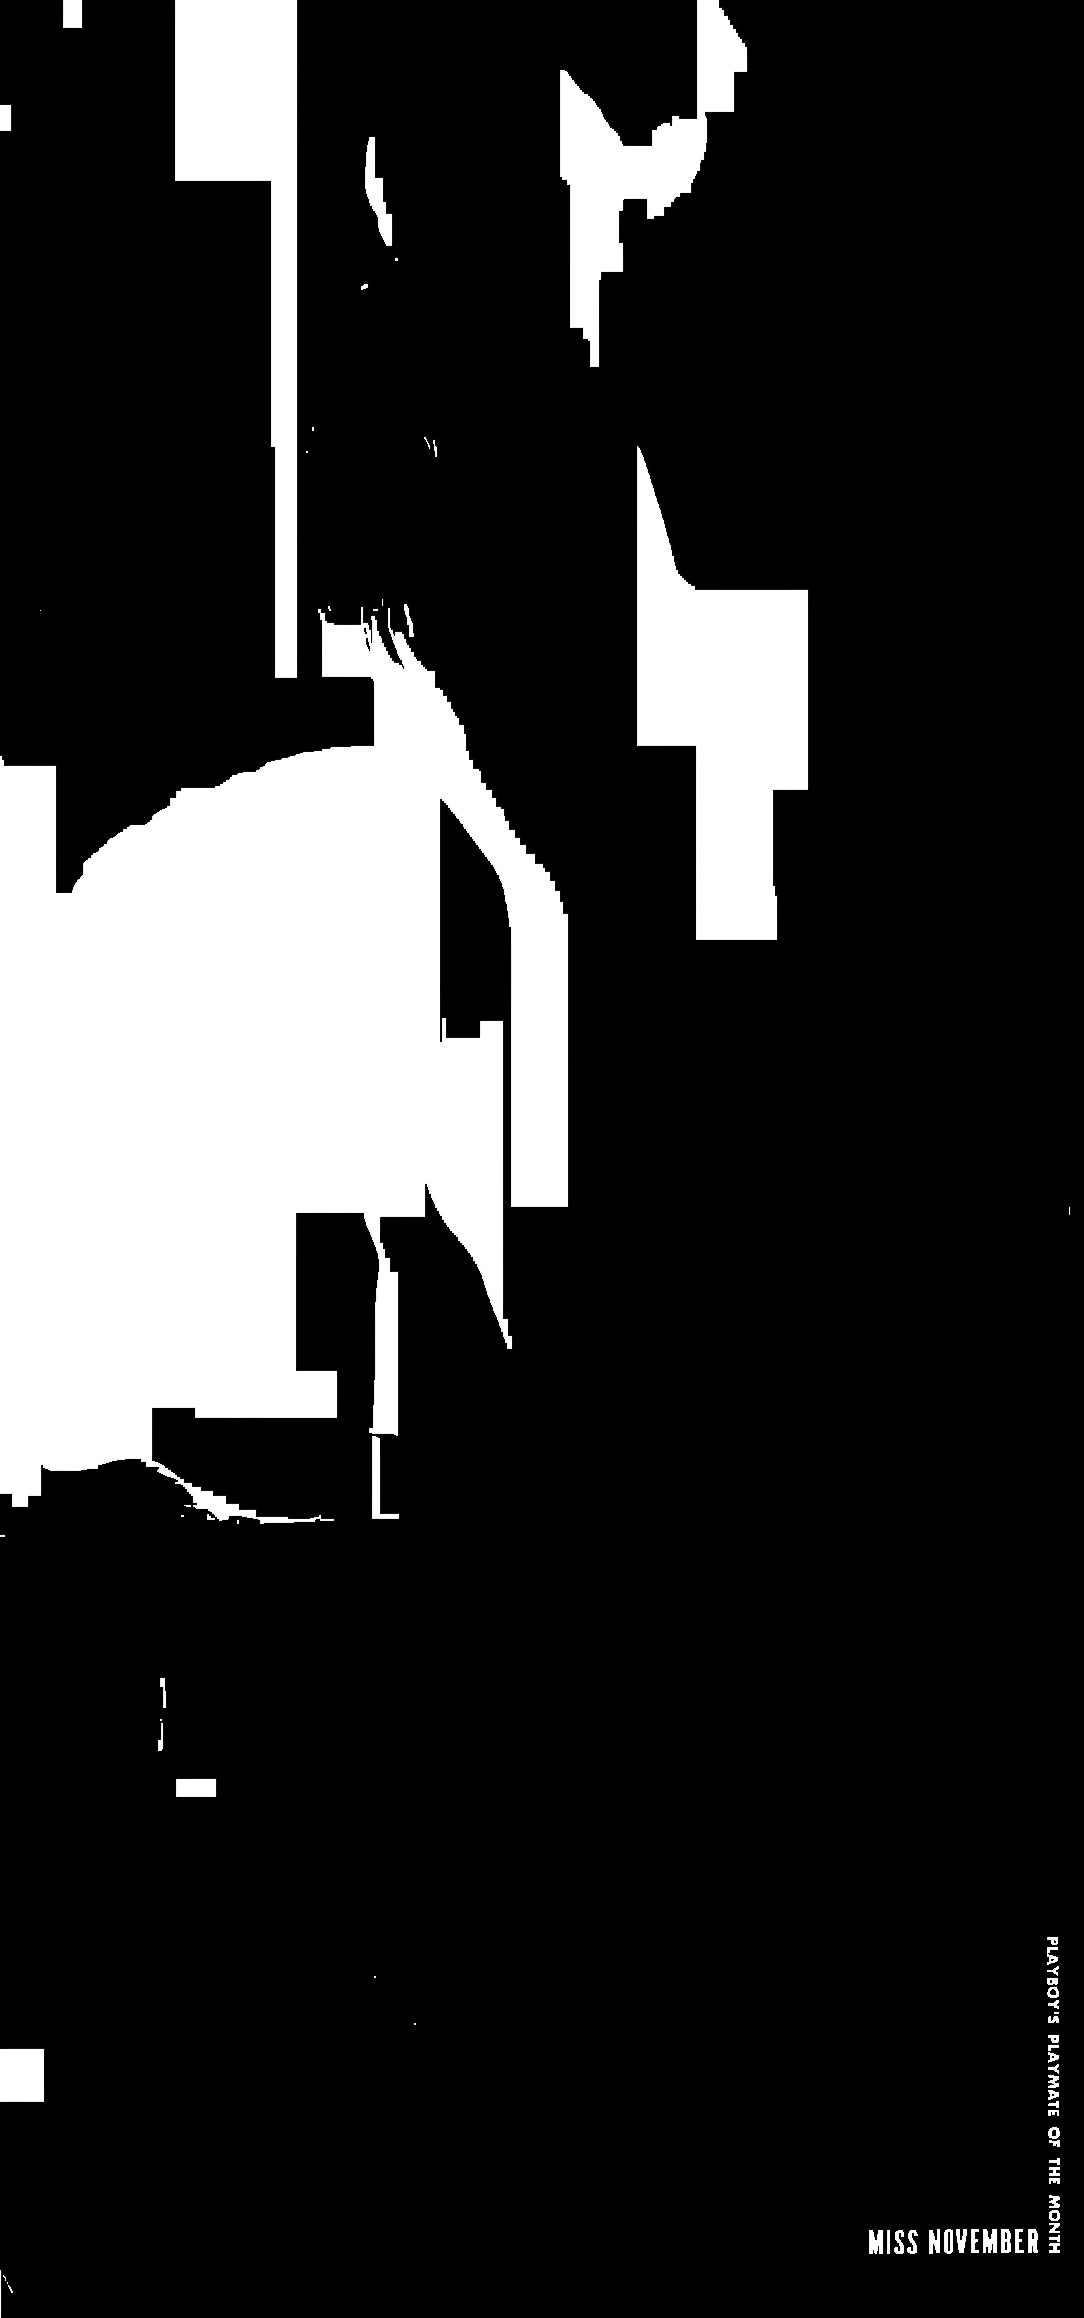
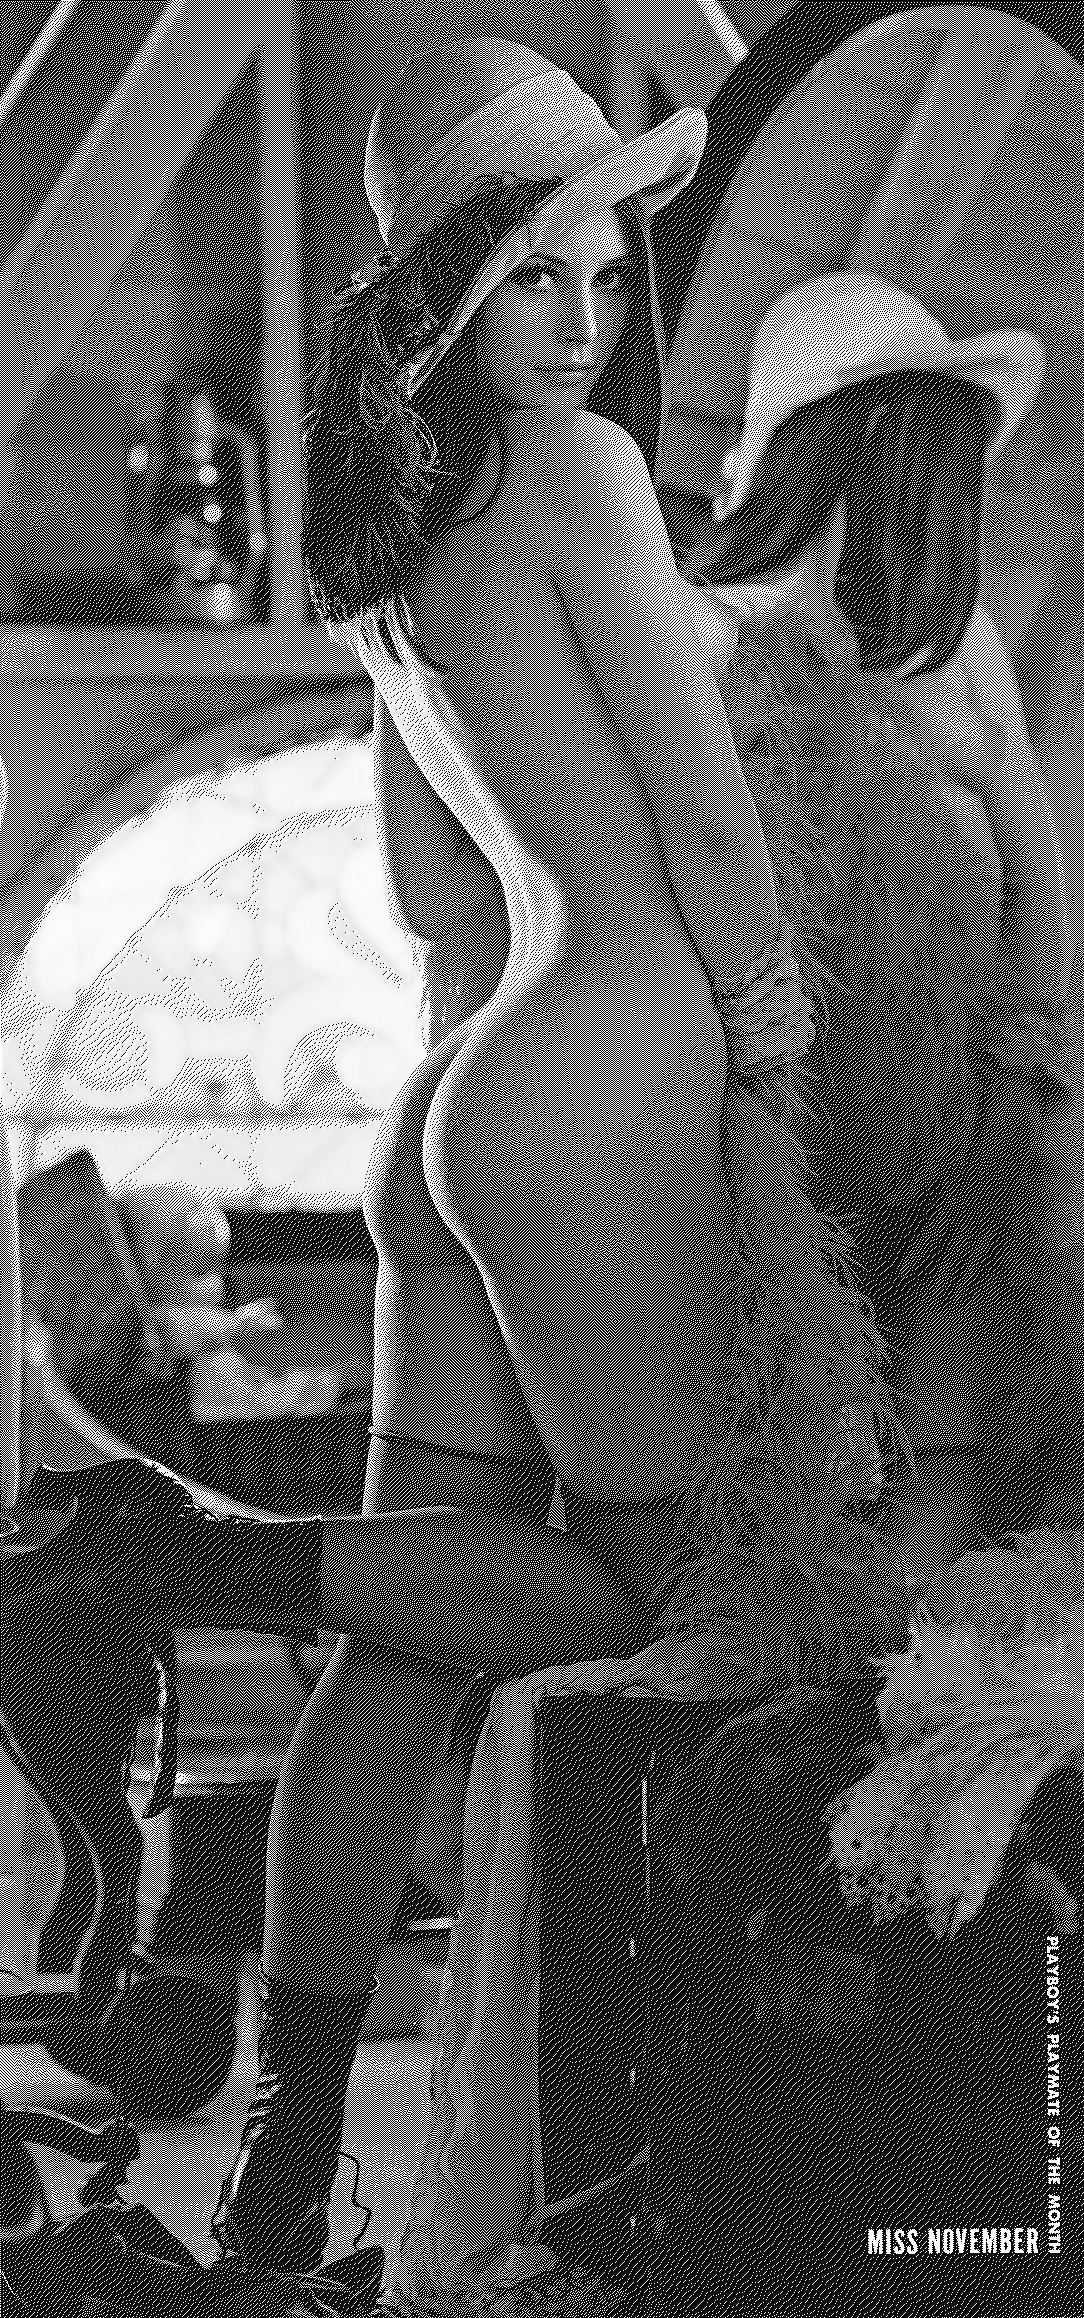
Fixed Floyd dithering

diff --git a/coisas.py b/coisas.py
@@ -715,7 +715,7 @@ def AAPDithering(img,filename):
                 img[i,j] = false;
             
             
-            erro = img[i,j] - copy
+            erro = copy  -  img[i,j]  
             if(i+1 < rows):
                 img[i+1,j] = img[i+1,j] + erro * 7.0/16 
             if(i+1 < rows and j+1 < cols):
@@ -741,7 +741,7 @@ def AAPDithering(img,filename):
 
 if __name__ == "__main__":
     
-    filename = 'reee.jpg'
+    filename = 'lenna.jpg'
     img = cv2.imread(filename,0)
     name, extension = os.path.splitext(filename)
     
